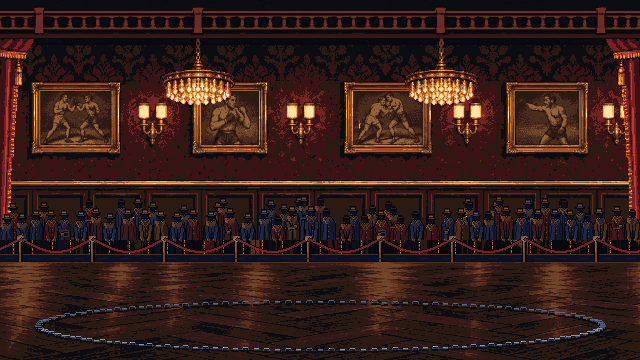
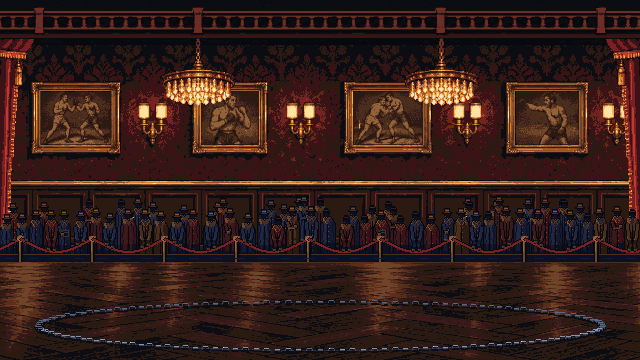
Adopt Art Pack v3.2.1: the crowd band down to the real barriers
The band of old spectators left above each barrier by the v3.2 brief's
wrong rows is repainted in all seven crowd sheets: the v3.2 figures run
down to the rail, rope, chain or mesh (behind it where it is
see-through), and the rail hands sit on the real barrier. No rims or
dotted runs remain; barrier pixels are unchanged apart from the hands;
all colours on the master palette; art selftest passes.

Version 0.4.4 (art only; online-compatible with 0.4.2).

Claude-Session: https://claude.ai/code/session_01LvD3Rr7D8U8WWpPFd1yPmD

Changed region(s): [[0.0, 0.6417, 1.0, 0.7028]]

diff --git a/ArtSource/Pack-v3.2.1/VALIDATION.md b/ArtSource/Pack-v3.2.1/VALIDATION.md
@@ -1,0 +1,61 @@
+# Validation — Crowd Band v3.2.1
+
+Source: IronRing 0.4.3 / fee247c. Baseline: its integrated v3.2 crowd sheets.
+
+## Pixel results
+
+| Venue | Band | Colours | Orange edges, before → after | Dotted runs, before → after | Barrier differences outside hands |
+| --- | --- | ---: | ---: | ---: | ---: |
+| pier_nine | 49–59 | 17 | 180 → 0 | 245 → 0 | 0 |
+| lantern_row | 49–60 | 19 | 194 → 0 | 315 → 0 | 0 |
+| foundry | 48–59 | 15 | 229 → 0 | 364 → 0 | 0 |
+| the_crown | 48–59 | 12 | 416 → 0 | 761 → 0 | 0 |
+| dry_dock | 50–67 | 15 | 336 → 0 | 613 → 0 | 0 |
+| ship_hold | 49–69 | 15 | 284 → 0 | 1051 → 0 | 0 |
+| brokers_club | 54–67 | 16 | 319 → 0 | 314 → 0 | 0 |
+
+Counts are summed over all eight frames. Orange edges are `sodium_2` pixels adjacent to transparent pixels in the four cardinal directions. Dotted runs are three consecutive warm pixel groups (`sodium_1` or `sodium_2`) in one column, separated by 1–3 non-warm pixels. Both checks cover every row above the specified solid-barrier row: 60, 61, 60, 60, 68, 70 and 68 respectively.
+
+Hardware was identified using the existing Lantern Row rope/post mask and the three Pack-v3B barrier masters, plus the fixed rail/parapet and protected lower regions. The original source pixels were retained. The comparison excludes only the old and relocated hand footprints, including restoration of hardware previously covered by a hand.
+
+Upper artwork and protected lower rows also compare byte-exact outside those hand footprints. Lantern Row grips follow the exact rope/post mask rather than a guessed constant row; its rope contour includes row 62. The hand overlap is the only change below the specified band there.
+
+All sheets: 768×672 RGBA; eight 84-pixel frames; alpha only 0/255; all opaque RGB values from the source palette; 12–19 colours; head/shoulder coverage above row 37 in every 128-pixel strip; no new pixels above row 2. The upper spectator shapes and clothes remain the accepted v3.2 pixels.
+
+## Animation
+
+Changed pixels within the band for each adjacent frame, including the loop seam:
+
+| Venue | Rest: 0→1, 1→2, 2→3, 3→0 | Cheer: 4→5, 5→6, 6→7, 7→4 |
+| --- | --- | --- |
+| pier_nine | 279, 143, 279, 143 | 470, 472, 473, 471 |
+| lantern_row | 209, 154, 209, 154 | 517, 455, 526, 448 |
+| foundry | 217, 106, 217, 106 | 423, 401, 432, 392 |
+| the_crown | 136, 251, 136, 251 | 340, 433, 332, 445 |
+| dry_dock | 263, 85, 263, 85 | 524, 391, 523, 406 |
+| ship_hold | 331, 169, 331, 169 | 610, 600, 611, 599 |
+| brokers_club | 237, 105, 237, 105 | 433, 380, 427, 368 |
+
+The lower-body construction uses each original spectator’s phase and bob, with fixed world positions and costume colours. Lower folds and buttons move with the torso. Hands remain fixed on the barrier. No wrap transition exceeds the other transitions by a material jump.
+
+## Project and runtime checks
+
+- Source ZIP comparison: exactly seven crowd PNGs and seven stage-preview PNGs changed; all other supplied files match.
+- `python3 Tools/Art/compose_previews.py`: seven previews recomposed.
+- `python3 Tools/Art/selftest.py`: `art selftest: ok`.
+- Release and debug builds: pass; `IR_WARNINGS_AS_ERRORS=ON` in both configurations.
+- Release CTest: 3/3 pass; debug CTest: 3/3 pass. Entries: IronRingTests, AssetPackerBakesProject and IronRingServerCheck.
+- Debug smoke: 420 frames at 1920×1080, exit 0, image inspected.
+- Release captures: all seven stages, 960 frames, Dee/Bram, at 640×360 and 1920×1080. All 14 runs exit 0. The player reports version 0.4.3 and loads the delivered loose assets.
+
+The local Linux build used `SDL_UNIX_CONSOLE_BUILD=ON` and the existing software batch renderer with dummy video/audio drivers. No engine code or game data was changed. These are local build/test results, not remote CI results.
+
+Capture command, repeated per stage and resolution:
+
+```sh
+./IronRing.x86_64 -batchmode -demo -stage <id> -fighters dee,bram -frames 960 \
+  -screen-fullscreen 0 -screen-width 1920 -screen-height 1080 \
+  -assets-folder <source>/Assets -screenshot <id>_ingame_3x.png
+```
+
+Visual review confirms continuous clothing down to the barrier, relocated grips, dark lower bodies visible through the open barriers, and fighters remaining brighter than the spectators.

diff --git a/ArtSource/Pack-v3.2.1/PACK_README.md b/ArtSource/Pack-v3.2.1/PACK_README.md
@@ -1,0 +1,68 @@
+# Iron Ring Art Pack v3.2.1 — Crowd Band
+
+Correction for the supplied **0.4.3 / fee247c** source snapshot, 7 November 2026.
+
+The legacy lower-body band has been replaced in all seven crowd sheets.
+The accepted v3.2 figures now continue down to the actual barriers: coat and
+apron fronts become darker toward the rail, and bodies remain visible behind
+ropes, chains and mesh. Hands grip the real hardware; the old waist-height
+hand placements are removed and the forearms extend to the new grips.
+
+## Install
+
+Copy `Assets/` over the matching directory in the supplied source project.
+The package contains exactly the seven corrected crowd sheets and seven
+recomposed stage previews. Rebuild the asset packages, or use the player's
+`-assets-folder Assets` option to inspect the loose assets.
+
+## Corrections by venue
+
+| Venue | Repainted band, inclusive | Result and preserved barrier |
+| --- | --- | --- |
+| Pier 9 | 49–59 | Pea coats and workwear extend to the steel rail; hands rest on row 60. Rail, posts and all lower pixels are preserved outside the hand footprints. |
+| Lantern Row | 49–60 | Aprons, shawls and coats continue to the rope. Grips follow its actual contour; brass posts, caps, highlights and rope pixels are preserved. |
+| The Foundry | 48–59 | Overalls and leather aprons continue to the steel rail at row 60, with lowered grips and dark lower folds. |
+| The Crown | 48–59 | Coats and evening wear continue to the parapet at row 60; hands rest on its coping. The old orange dotted torsos are removed. |
+| Dry Dock 4 | 50–67 | Rain gear continues behind the slack chain. Hands meet the chain or post, with the stanchions, links and wall from row 68 preserved. |
+| The Hold | 49–69 | Crew coats and oilskins continue behind the mesh. Grips meet the fence's top edge; the mesh, posts and all pixels from row 70 are preserved. |
+| The Broker's Club | 54–67 | Suit fronts and coats continue behind the red rope. Grips follow the rope; brass posts, rope and base from row 68 are preserved. |
+
+The whole band was reconstructed from the existing v3.2 spectator designs,
+not recoloured from the legacy pixels. Original barrier ownership masks kept
+hardware separate from clothing. The upper figures are byte-exact to v3.2
+apart from the explicitly requested hand removal/relocation. No other artwork,
+game data or code is included or changed.
+
+The same eight-frame layout and spectator identities are retained. Lower
+folds, openings and buttons follow the existing 1–2 pixel cheer bob; rail
+hands remain anchored. Both four-frame loops close without a seam jump.
+
+## Review files
+
+- `<id>_band_before_after_4x.png`: the entire 768-pixel width, rows 30–83, at exact 4×. Frame 0 is left, frame 4 is right; v3.2 is above v3.2.1.
+- `<id>_band_detail_before_after_4x.png`: the same comparison with a 200-pixel detail crop for easier inspection.
+- `<id>_ingame_1x.png` and `<id>_ingame_3x.png`: actual unretouched 960-frame game captures with Dee and Bram.
+- `<id>_rest_band_4x.gif` and `<id>_cheer_band_4x.gif`: separate four-frame loops, 230 ms per frame.
+
+## Validation
+
+All seven sheets pass the band audit: zero orange silhouette-edge pixels,
+zero dotted sodium runs above the specified solid barrier row, and zero
+hardware differences outside the old/new hand footprints. Each remains
+768×672 RGBA with binary alpha and at most 19 colours. Only the requested 14
+production PNGs differ from the supplied source ZIP.
+
+The project art self-test passes. Local release and debug builds pass with
+warnings treated as errors, and all three CTest entries pass in each.
+All seven venues were checked in-game at 1× and 3×. See `VALIDATION.md` for
+measurements and `CONTENTS_SHA256.txt` for the file hashes.
+
+All requested corrections are complete; no item is deferred.
+
+## Method and licence
+
+The native-pixel Python/Pillow/NumPy authoring method is unchanged from v3.2.
+No new generated reference, stock artwork or outside image was used, so no
+new provenance document is required. The source package retains v3.2's
+provenance. This is an altered artwork package under the same zlib terms;
+see `LICENSE.txt`.

diff --git a/ArtSource/Pack-v3.2.1/REVIEW.md b/ArtSource/Pack-v3.2.1/REVIEW.md
@@ -1,0 +1,32 @@
+# Art Pack v3.2.1 (crowd band): review
+
+**Reviewed:** 2026-11-07, against the [crowd band brief](../../docs/art/art-pack-v3.2.1-crowd-band-brief.md), with the project tools and in the game.
+
+**Verdict:** adopted as delivered. The band of old spectators above each barrier, left by the v3.2 brief's wrong rows, is gone in all seven venues. With this, the crowd pass is complete.
+
+## Item by item
+
+| Venue | Result |
+| --- | --- |
+| Pier 9, The Foundry, The Crown | Coats and workwear run down to the rail or parapet at row 60, darkening toward it. Hands rest on the rail's top edge. The rail, posts and parapet are unchanged apart from those hands, rows 60–61. |
+| Lantern Row | Aprons, shawls and coats continue to the rope, and the grips follow its sag (rows 61–63). The brass posts, caps and highlights are untouched. |
+| Dry Dock 4 | Rain gear continues behind the slack chain, which stays drawn in front. The posts, links and the wall from row 68 are unchanged. |
+| The Hold | Coats and oilskins show through the chain-link mesh. The mesh, posts and everything from row 70 are unchanged. |
+| The Broker's Club | Suits and coats continue behind the red rope. The posts, rope and base from row 68 are unchanged. |
+
+**Across all seven:**
+- No `sodium_2` silhouette-edge pixels, and no dotted vertical `sodium` runs, above the solid barrier row. Before, these were the old rims.
+- The figures above the band are as in v3.2, except where the old waist-height hands were removed and the forearms extended: 736–1,120 px over the 8 frames.
+- 12–19 colours per sheet, all on the master palette.
+- Binary alpha, 768 × 672, 8 frames.
+- Heads in every 128 px strip of every frame.
+- The rest and cheer loops close cleanly.
+- The bodies in the band follow the figures' cheer bob, and the grips stay put.
+
+## Checks
+
+- `Checks/project_checks.txt`: diffs against v3.2 above, in and below the band; rims, dotted runs, palette and heads.
+- `Checks/art_selftest.txt`: `art selftest: ok`. `compose_previews.py` reproduces the delivered previews unchanged.
+- `Checks/*_band_detail_before_after_4x.png`: the pack's own before/after for The Crown (the worst case before) and The Hold (a see-through barrier).
+- **In the game:** all seven venues at 1× (Dee vs Bram, 960 ticks). The crowds run down unbroken to their barriers, with no dots. The player smoke run passes, and so does `ctest`.
+- **Provenance:** the method is unchanged from v3.2, with no new generated references. zlib licence.

diff --git a/ROADMAP.md b/ROADMAP.md
@@ -131,7 +131,7 @@ Two players anywhere fight over the internet with rollback netcode. They meet on
   - ✅ the online select marks each side **READY**; the host picks the venue only once both are; the guest sees both fighters and *HOST IS CHOOSING THE STAGE* meanwhile (0.4.2)
   - ✅ a match could hang at the end, waiting for the opponent's last inputs: the server now relays the finished match's tail, and a client takes the referee's result after 3 s (0.4.2; found by the soak test)
   - ✅ crowds that face the ring: Art Pack v3.2 ([brief](docs/art/art-pack-v3.2-crowds-brief.md), [review](ArtSource/Pack-v3.2/REVIEW.md))
-  - 🔜 the band of old spectators left above the barrier (the v3.2 brief's protected rows were wrong): Art Pack v3.2.1 ([brief](docs/art/art-pack-v3.2.1-crowd-band-brief.md))
+  - ✅ the band of old spectators left above the barrier (the v3.2 brief's protected rows were wrong): Art Pack v3.2.1 ([brief](docs/art/art-pack-v3.2.1-crowd-band-brief.md), [review](ArtSource/Pack-v3.2.1/REVIEW.md))
 
 - ⬜ Crash handler process (a `UnityCrashHandler64.exe` look-alike in spirit: minidump + log upload prompt)
 - ⬜ Installer/packaging, store integration as needed

diff --git a/ArtSource/README.md b/ArtSource/README.md
@@ -68,3 +68,7 @@ Delivered 2026-11-07 against the [crowd brief](../docs/art/art-pack-v3.2-crowds-
 
 Adopted as delivered ([Pack-v3.2/REVIEW.md](Pack-v3.2/REVIEW.md)). The brief gave the wrong protected rows, so a band of the old spectators survives above the barrier. The [v3.2.1 brief](../docs/art/art-pack-v3.2.1-crowd-band-brief.md) asks for it to be repainted. The pack's game captures and GIFs (3.6 MB) stay outside the repository; its Pier 9 before/after is in `Pack-v3.2/Checks/`.
 
+## Art Pack v3.2.1
+
+Delivered 2026-11-07 against the [crowd band brief](../docs/art/art-pack-v3.2.1-crowd-band-brief.md). The band of old spectators above each barrier is repainted as a continuation of the v3.2 figures, behind ropes, chains and mesh where the barrier is see-through, and the rail hands are moved onto the real barriers. Adopted as delivered ([Pack-v3.2.1/REVIEW.md](Pack-v3.2.1/REVIEW.md)). The pack's game captures and GIFs stay outside the repository.
+

diff --git a/ArtSource/Pack-v3.2/REVIEW.md b/ArtSource/Pack-v3.2/REVIEW.md
@@ -2,7 +2,7 @@
 
 **Reviewed:** 2026-11-07, against the [crowd brief](../../docs/art/art-pack-v3.2-crowds-brief.md), with the project tools and in the game.
 
-**Verdict:** adopted as delivered. The crowds now face the ring in all seven venues. One defect remains, and it comes from the brief, not the pack: a band of the **old** spectators survives between the new figures and the barrier. It is the subject of a follow-up, [Art Pack v3.2.1](../../docs/art/art-pack-v3.2.1-crowd-band-brief.md).
+**Verdict:** adopted as delivered. The crowds now face the ring in all seven venues. One defect remains, and it comes from the brief, not the pack: a band of the **old** spectators survives between the new figures and the barrier. It is the subject of a follow-up, [Art Pack v3.2.1](../../docs/art/art-pack-v3.2.1-crowd-band-brief.md), which fixed it ([review](../Pack-v3.2.1/REVIEW.md)).
 
 ## What the pack does
 
